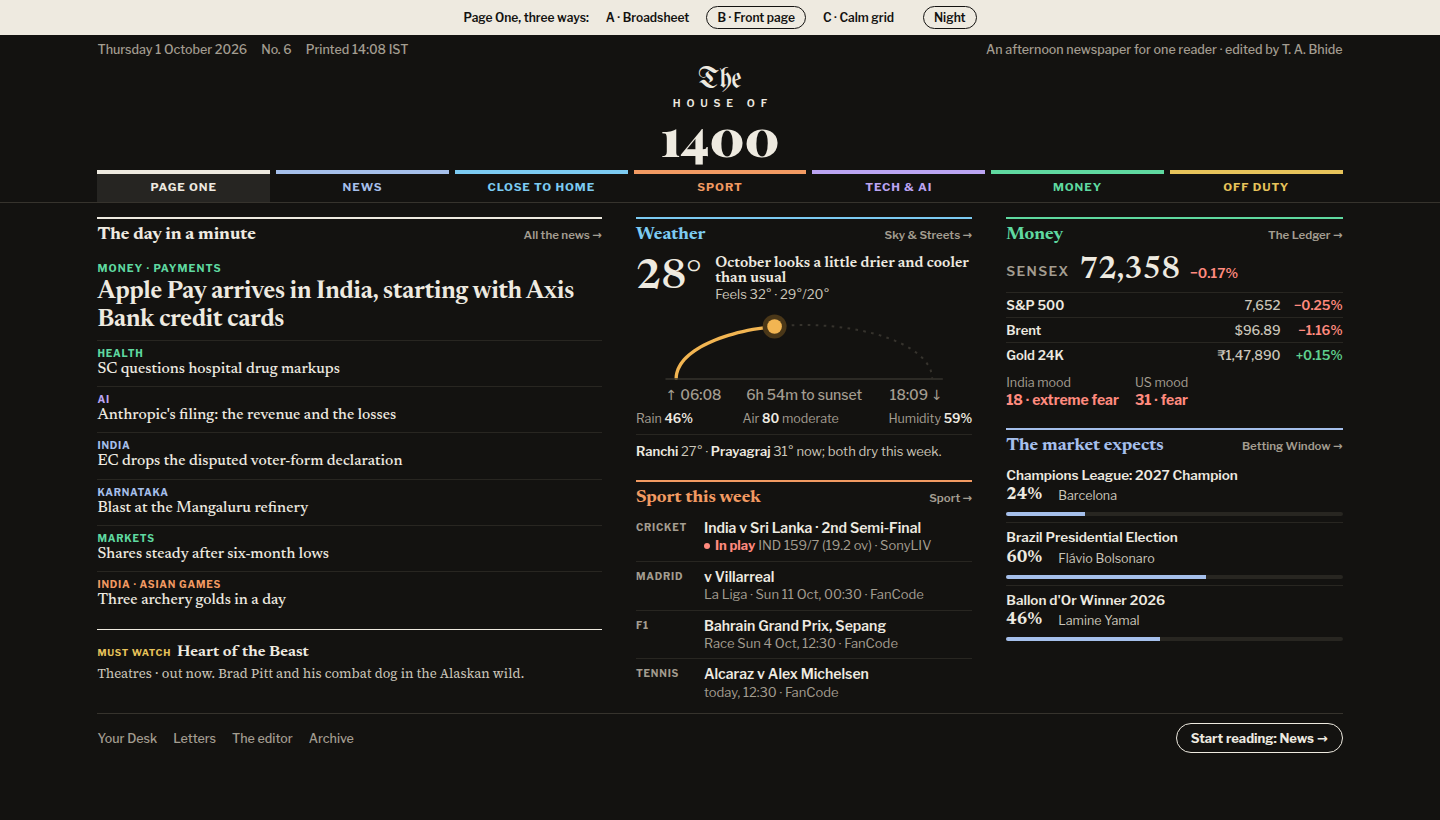
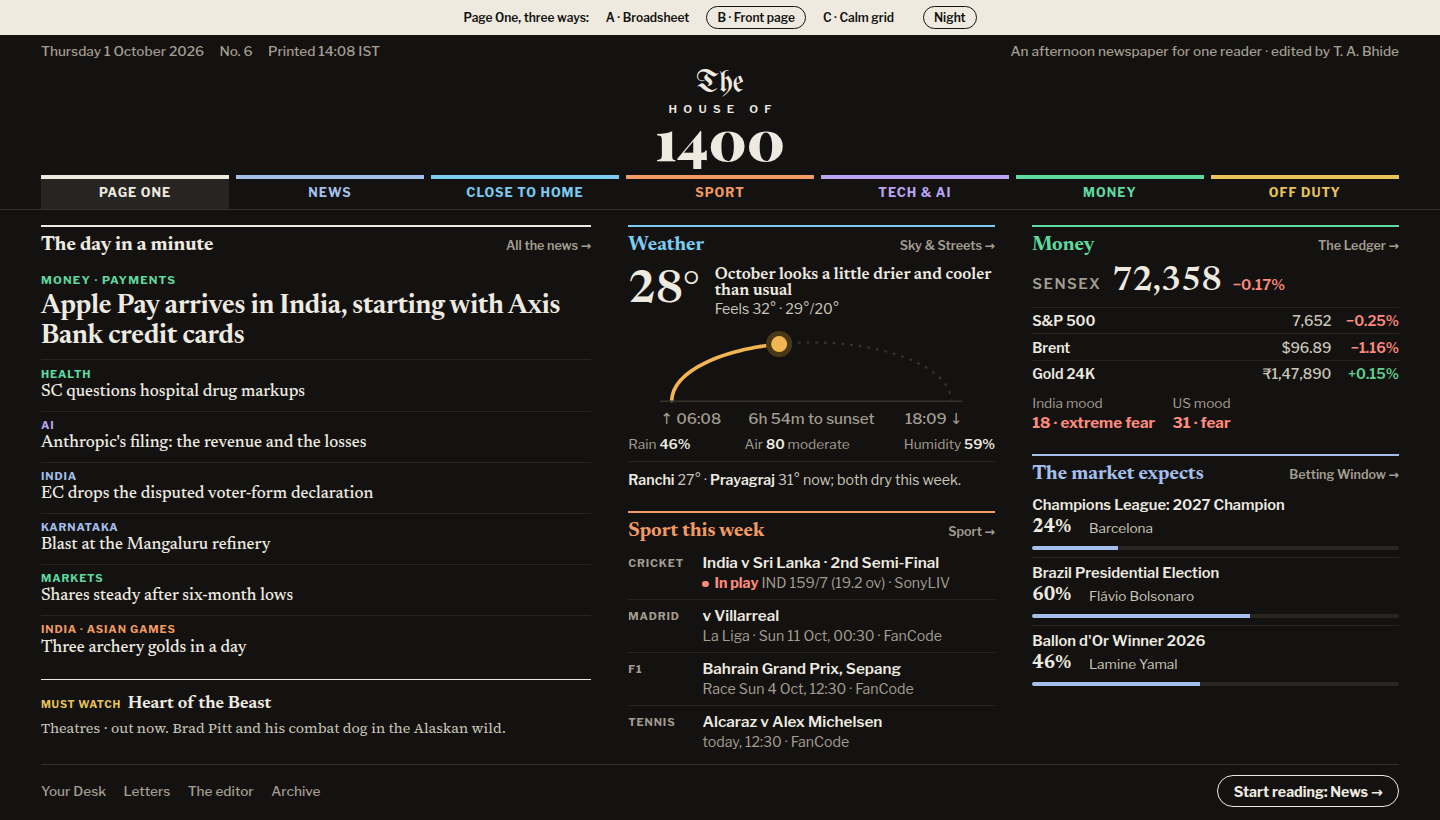
Page One B: fill any screen (lines first, then scale to fit), tighter nameplate, balanced columns
Claude-Session: https://claude.ai/code/session_01JWihSHpd9U85cYp2K9MW5z

diff --git a/design/page-one/page-one-variants.html b/design/page-one/page-one-variants.html
@@ -35,7 +35,7 @@ a{color:inherit;text-decoration:none}
 .plate{text-align:center;padding:4px 0 0}
 .plate .the{font:400 28px/1 "UnifrakturMaguntia",serif}
 .plate .hof{font:600 10.5px var(--sans);letter-spacing:.55em;margin:3px -.55em 2px 0}
-.plate .n{font:900 52px/.92 "Playfair Display",serif}
+.plate .n{font:900 52px/.92 "Playfair Display",serif;margin-top:-.12em}
 nav.desks{position:sticky;top:0;z-index:5;background:var(--paper);border-bottom:1px solid var(--rule)}
 nav.desks ol{list-style:none;margin:0 auto;padding:0 clamp(16px,2.6vw,40px);max-width:1320px;display:grid;grid-template-columns:repeat(7,1fr);gap:6px;overflow-x:auto;scrollbar-width:none}
 nav.desks a{display:block;text-align:center;border-top:4px solid var(--c);padding:6px 4px 8px;font:700 11.5px var(--sans);letter-spacing:.08em;text-transform:uppercase;color:var(--c);white-space:nowrap}
@@ -111,6 +111,7 @@ ol.bets .bar i{display:block;height:100%;background:var(--c)}
 .vB .body{display:grid;grid-template-columns:minmax(0,1.5fr) minmax(0,1fr) minmax(0,1fr);gap:22px 34px;padding:14px 0 6px}
 .vB .eve{border-top:1px solid var(--ink);margin-top:12px;padding-top:10px}
 .vB .stack .arc,.vC .panels .arc{max-height:96px}
+.vB .body{align-items:start}
 .vB .stack{display:flex;flex-direction:column;gap:20px}
 .vB .news ol.min a{grid-template-columns:1fr;gap:1px}
 .vB .news ol.min{columns:1}
@@ -245,11 +246,25 @@ function C(n = 10) {
 }
 // Page One is one screen on a laptop: print as many of the editor's lines as fit, never fewer than five (with the lead).
 const page = document.getElementById("page"), make = ({ A, B, C })[V] || A, MAX = 9;
-function fit() { let n = MAX; page.innerHTML = make(n);
+// B's evening pick goes to whichever column is shortest, so no column ends far above the others.
+function balance() {
+  const eve = page.querySelector(".vB .eve"), cols = [...page.querySelectorAll(".vB .body > section.news, .vB .stack")];
+  if (!eve || innerWidth < 1100) return;
+  const h = c => c.getBoundingClientRect().height - (c.contains(eve) ? eve.getBoundingClientRect().height : 0), low = cols.reduce((a, c) => (h(c) < h(a) ? c : a));
+  if (!low.contains(eve)) low.append(eve);
+}
+// One screen on any laptop or monitor, filled: first as many of the editor's lines as fit (never fewer than five with the lead);
+// then, on a bigger screen, the whole page scales up until it fills the height, as far as the width allows.
+function fit() {
+  page.style.zoom = 1; let n = MAX; page.innerHTML = make(n); balance();
   if (innerWidth < 1000) return;
-  // the dark switch bar is mock chrome, not the paper, so it does not count
-  const bar = document.querySelector(".switch").offsetHeight;
-  while (n > 4 && document.documentElement.scrollHeight - bar > innerHeight) page.innerHTML = make(--n); }
+  const tall = () => document.documentElement.scrollHeight > innerHeight;
+  while (n > 4 && tall()) { page.innerHTML = make(--n); balance(); }
+  // a short laptop screen may shrink the page a little (to 0.85) rather than scroll
+  let lo = 0.85, hi = Math.max(1, Math.min(innerWidth / 1320, 2));
+  for (let k = 0; k < 12; k++) { const z = (lo + hi) / 2; page.style.zoom = z; if (tall()) hi = z; else lo = z; }
+  page.style.zoom = lo;
+}
 fit(); document.fonts?.ready.then(fit); addEventListener("resize", fit);
 document.getElementById("th").onclick = () => { const r = document.documentElement, dk = r.dataset.theme === "dark" || (!r.dataset.theme && matchMedia("(prefers-color-scheme: dark)").matches); r.dataset.theme = dk ? "light" : "dark"; };
 </script>

diff --git a/design/page-one/src2.html b/design/page-one/src2.html
@@ -35,7 +35,7 @@ a{color:inherit;text-decoration:none}
 .plate{text-align:center;padding:4px 0 0}
 .plate .the{font:400 28px/1 "UnifrakturMaguntia",serif}
 .plate .hof{font:600 10.5px var(--sans);letter-spacing:.55em;margin:3px -.55em 2px 0}
-.plate .n{font:900 52px/.92 "Playfair Display",serif}
+.plate .n{font:900 52px/.92 "Playfair Display",serif;margin-top:-.12em}
 nav.desks{position:sticky;top:0;z-index:5;background:var(--paper);border-bottom:1px solid var(--rule)}
 nav.desks ol{list-style:none;margin:0 auto;padding:0 clamp(16px,2.6vw,40px);max-width:1320px;display:grid;grid-template-columns:repeat(7,1fr);gap:6px;overflow-x:auto;scrollbar-width:none}
 nav.desks a{display:block;text-align:center;border-top:4px solid var(--c);padding:6px 4px 8px;font:700 11.5px var(--sans);letter-spacing:.08em;text-transform:uppercase;color:var(--c);white-space:nowrap}
@@ -111,6 +111,7 @@ ol.bets .bar i{display:block;height:100%;background:var(--c)}
 .vB .body{display:grid;grid-template-columns:minmax(0,1.5fr) minmax(0,1fr) minmax(0,1fr);gap:22px 34px;padding:14px 0 6px}
 .vB .eve{border-top:1px solid var(--ink);margin-top:12px;padding-top:10px}
 .vB .stack .arc,.vC .panels .arc{max-height:96px}
+.vB .body{align-items:start}
 .vB .stack{display:flex;flex-direction:column;gap:20px}
 .vB .news ol.min a{grid-template-columns:1fr;gap:1px}
 .vB .news ol.min{columns:1}
@@ -245,11 +246,25 @@ function C(n = 10) {
 }
 // Page One is one screen on a laptop: print as many of the editor's lines as fit, never fewer than five (with the lead).
 const page = document.getElementById("page"), make = ({ A, B, C })[V] || A, MAX = 9;
-function fit() { let n = MAX; page.innerHTML = make(n);
+// B's evening pick goes to whichever column is shortest, so no column ends far above the others.
+function balance() {
+  const eve = page.querySelector(".vB .eve"), cols = [...page.querySelectorAll(".vB .body > section.news, .vB .stack")];
+  if (!eve || innerWidth < 1100) return;
+  const h = c => c.getBoundingClientRect().height - (c.contains(eve) ? eve.getBoundingClientRect().height : 0), low = cols.reduce((a, c) => (h(c) < h(a) ? c : a));
+  if (!low.contains(eve)) low.append(eve);
+}
+// One screen on any laptop or monitor, filled: first as many of the editor's lines as fit (never fewer than five with the lead);
+// then, on a bigger screen, the whole page scales up until it fills the height, as far as the width allows.
+function fit() {
+  page.style.zoom = 1; let n = MAX; page.innerHTML = make(n); balance();
   if (innerWidth < 1000) return;
-  // the dark switch bar is mock chrome, not the paper, so it does not count
-  const bar = document.querySelector(".switch").offsetHeight;
-  while (n > 4 && document.documentElement.scrollHeight - bar > innerHeight) page.innerHTML = make(--n); }
+  const tall = () => document.documentElement.scrollHeight > innerHeight;
+  while (n > 4 && tall()) { page.innerHTML = make(--n); balance(); }
+  // a short laptop screen may shrink the page a little (to 0.85) rather than scroll
+  let lo = 0.85, hi = Math.max(1, Math.min(innerWidth / 1320, 2));
+  for (let k = 0; k < 12; k++) { const z = (lo + hi) / 2; page.style.zoom = z; if (tall()) hi = z; else lo = z; }
+  page.style.zoom = lo;
+}
 fit(); document.fonts?.ready.then(fit); addEventListener("resize", fit);
 document.getElementById("th").onclick = () => { const r = document.documentElement, dk = r.dataset.theme === "dark" || (!r.dataset.theme && matchMedia("(prefers-color-scheme: dark)").matches); r.dataset.theme = dk ? "light" : "dark"; };
 </script>

diff --git a/design/page-one/README.md b/design/page-one/README.md
@@ -31,3 +31,9 @@ Page One fits one screen on a laptop (1280 x 760 and up); on a phone it stacks i
 - **C · Calm grid:** the day's news across the top in three columns; four equal panels below.
 
 All three use the specimen nameplate with the desk strip as navigation and the cleaner sun arc. The lead has no deck. The page prints as many day-in-a-minute lines as fit one laptop screen, at least six (on a phone, the top eight). Fill lines prefer desks that have no panel of their own on Page One.
+
+## Round 3 (1 Oct): Parth picked B
+- The day in a minute is the editor's own glance (5 to 10 lines with the lead), never lines cut from other headlines.
+- **Fill the screen, any screen** (`fit()` in `src2.html`): print as many of the editor's lines as fit (never fewer than five with the lead), then scale the whole page (CSS `zoom`) until it fills the height, limited by the width (0.85 to 2). A 1280×720 laptop shrinks slightly instead of scrolling; a 1920×1080 or 2560×1440 monitor scales up 1.45 to 1.94 times instead of leaving half the screen empty. Phones are untouched (normal scroll).
+- B's columns are top-aligned and the evening pick goes to the shortest column.
+- Screenshots `big-B-<w>x<h>.png` from `shot3.mjs`.
